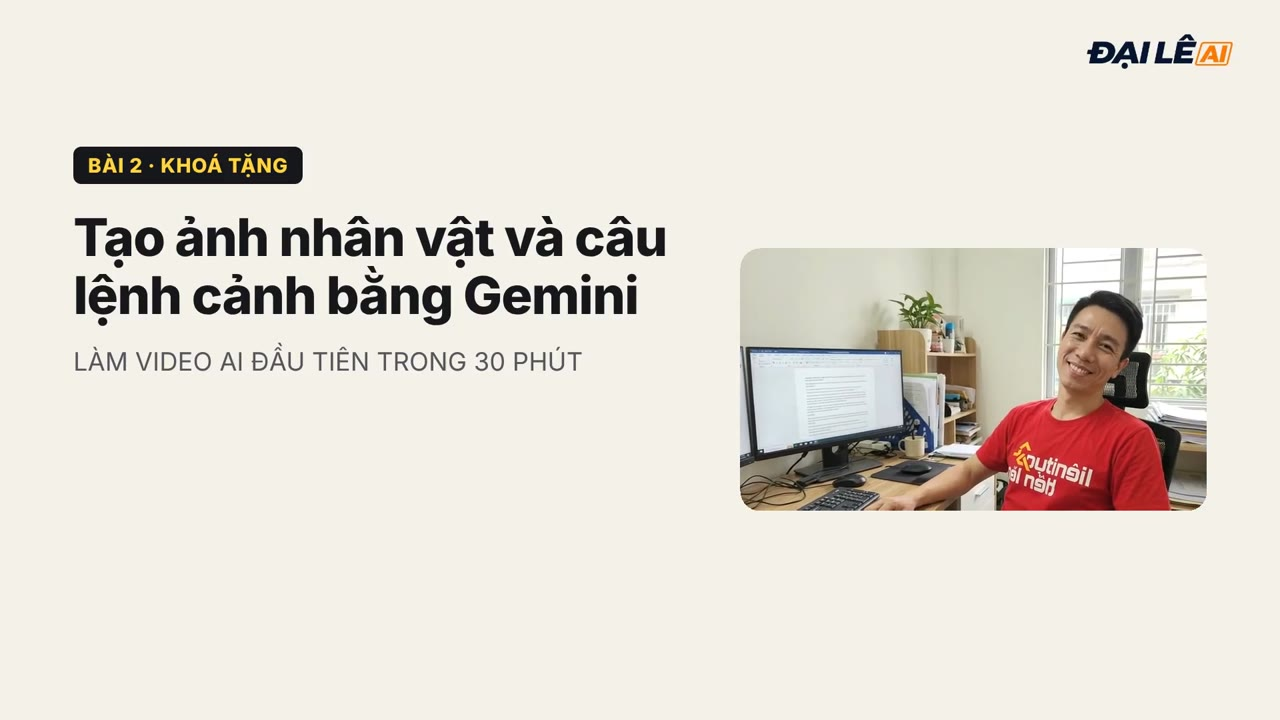
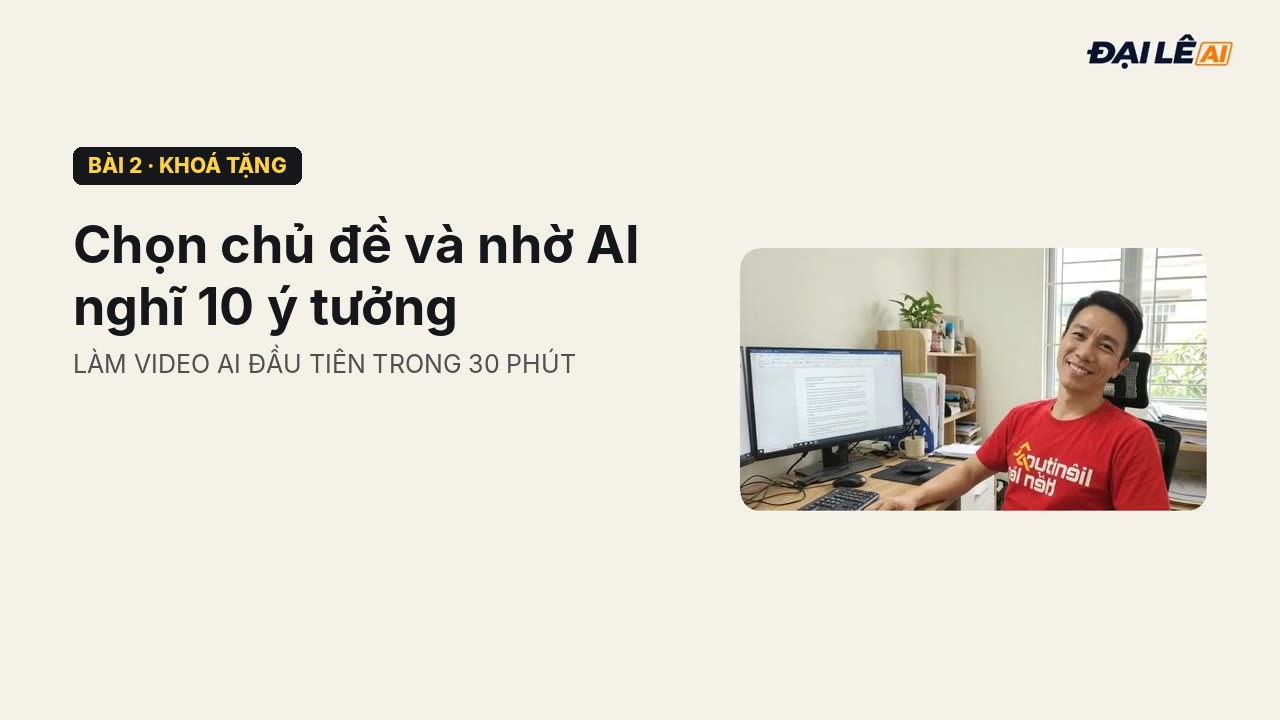
Khoá tặng 10 bài: nội dung mới, Omni/Veo 3.1, 3 đường 8/10/15 giây, 50 câu lệnh 10 ngành
Claude-Session: https://claude.ai/code/session_014dVP9GHVN5B5h4F3HWsqPJ

Changed region(s): [[0.0625, 0.3056, 0.5312, 0.5194], [0.0625, 0.2139, 0.2188, 0.2444]]

diff --git a/tang/index.html b/tang/index.html
@@ -2,10 +2,10 @@
 <html lang="vi"><head>
 <meta charset="utf-8"><meta name="viewport" content="width=device-width,initial-scale=1">
 <title>LÀM VIDEO AI ĐẦU TIÊN TRONG 30 PHÚT – Khoá tặng miễn phí | ĐẠI LÊ AI</title>
-<meta name="description" content="Khoá tặng miễn phí 6 bài: ChatGPT hoặc Gemini viết kịch bản, Gemini tạo nhân vật, Veo 3 trong Google Flow tạo video có tiếng nói, kèm 40 câu lệnh cho 10 ngành.">
+<meta name="description" content="Khoá tặng miễn phí 10 bài: ChatGPT hoặc Gemini viết kịch bản và tạo ảnh, Google Flow (Omni, Veo) tạo video có tiếng nói, kèm 50 câu lệnh cho 10 ngành.">
 <meta property="og:title" content="LÀM VIDEO AI ĐẦU TIÊN TRONG 30 PHÚT – Khoá tặng miễn phí">
-<meta property="og:description" content="6 bài ngắn, học xong có video AI đầu tiên và kế hoạch 7 ngày.">
-<meta property="og:image" content="/tang/img/hero.jpg?v=20261106">
+<meta property="og:description" content="10 bài ngắn, học xong có video AI đầu tiên và kế hoạch 7 ngày.">
+<meta property="og:image" content="/tang/img/hero.jpg?v=20261111">
 <link rel="icon" href="/tang/img/cover-square.jpg">
 <link href="https://fonts.googleapis.com/css2?family=Be+Vietnam+Pro:wght@400;500;600;700;800;900&display=swap" rel="stylesheet">
 <style>
@@ -114,16 +114,16 @@ async function doLogin(ev){ev.preventDefault();const f=ev.target,m=f.querySelect
 async function doReset(){const f=document.getElementById('lf'),m=f.querySelector('.msg');if(!f.email.value){m.textContent='Nhập email đã đăng ký trước, rồi bấm lại "Quên mật khẩu".';return}
  m.className='msg';m.textContent='Đang gửi…';try{const r=await api({action:'reset',email:f.email.value});m.className='msg ok';m.textContent=r.msg}catch(e){m.textContent='Không kết nối được, anh/chị thử lại.'}}
 function gate(){document.getElementById('crumb').innerHTML='<b>KHOÁ TẶNG</b> · Khu vực học viên';
- let h=`<div class="hero"><img src="/tang/img/hero.jpg?v=20261106" alt="LÀM VIDEO AI ĐẦU TIÊN TRONG 30 PHÚT"></div><div class="introv"><h2>Xem thử bài 1</h2><video  controls playsinline preload="metadata" poster="/tang/img/hero.jpg?v=20261106"><source src="/video/bai/tang-01.mp4?v=20261106" type="video/mp4"></video></div><div class="gate"><main>`;
- h+=`<div class="part" style="padding:22px 24px"><h2 style="margin:0 0 6px;font-size:22px">Khoá tặng này dành cho ai?</h2><p style="margin:0 0 14px;line-height:1.6">Dành cho người bán hàng, làm dịch vụ, muốn có <b>video ngắn để đăng mỗi ngày</b> mà chưa biết bắt đầu từ đâu. Không cần biết dựng phim.</p><h2 style="margin:0 0 10px;font-size:20px">Học xong bạn có</h2><div class="gi"><div>✍ Kịch bản 4 cảnh do ChatGPT hoặc Gemini viết</div><div>🧑 Ảnh nhân vật tạo bằng Gemini</div><div>🎬 Video có tiếng nói làm bằng Veo 3</div><div>📣 Video đã đăng, có từ khoá đón khách</div><div>🎁 40 câu lệnh Veo 3 cho 10 ngành</div><div>📅 Kế hoạch 7 ngày, 7 video</div></div><p class="small" style="margin-top:14px">6 bài ngắn, mỗi bài khoảng 7 phút. Miễn phí: đăng ký là nhận tài khoản học qua email.</p></div>`;
+ let h=`<div class="hero"><img src="/tang/img/hero.jpg?v=20261111" alt="LÀM VIDEO AI ĐẦU TIÊN TRONG 30 PHÚT"></div><div class="gate"><main>`;
+ h+=`<div class="part" style="padding:22px 24px"><h2 style="margin:0 0 6px;font-size:22px">Khoá tặng này dành cho ai?</h2><p style="margin:0 0 14px;line-height:1.6">Dành cho người bán hàng, làm dịch vụ, muốn có <b>video ngắn để đăng mỗi ngày</b> mà chưa biết bắt đầu từ đâu. Không cần biết dựng phim.</p><h2 style="margin:0 0 10px;font-size:20px">Học xong bạn có</h2><div class="gi"><div>✍ Kịch bản 30 giây do ChatGPT hoặc Gemini viết</div><div>🧑 Ảnh nhân vật giữ nguyên xuyên suốt video</div><div>🎬 Video có tiếng nói làm bằng Google Flow (Omni, Veo)</div><div>📣 Video đã đăng, có từ khoá đón khách</div><div>🎁 50 câu lệnh làm sẵn cho 10 ngành</div><div>📅 Kế hoạch 7 ngày, 7 video</div></div><p class="small" style="margin-top:14px">10 bài ngắn, chọn đường 8, 10 hoặc 15 giây theo gói của bạn. Miễn phí: đăng ký là nhận tài khoản học qua email.</p></div>`;
 h+=`</main><aside>${NOTOWN?`<div class="login"><h2>Xin chào ${WHO} 👋</h2><div class="small">Tài khoản của anh/chị chưa nhận khoá tặng này. Đăng ký miễn phí bằng đúng email này là khoá tự mở.</div><button class="btn" onclick="logout()" style="background:#5d6785">Đăng nhập tài khoản khác</button></div>`:`<form class="login" id="lf" onsubmit="doLogin(event)"><h2>Đăng nhập để học</h2><div class="small">Dùng email và mật khẩu trong thư chào mừng.</div>
  <input name="email" type="email" placeholder="Email đã đăng ký" required autocomplete="email"><input name="pw" type="password" placeholder="Mật khẩu" required autocomplete="current-password">
  <button class="btn y" type="submit">VÀO HỌC</button><div class="msg"></div><a class="lk" onclick="doReset()">Quên mật khẩu?</a></form>`}
- <div class="buy">Chưa có tài khoản?<br>Khoá tặng <s style="color:#8a8a8a">386.000đ</s> <b>miễn phí</b>, 6 bài ngắn<a class="btn" href="/tang/dang-ky/">ĐĂNG KÝ NHẬN KHOÁ TẶNG</a></div></aside></div>`;return h}
+ <div class="buy">Chưa có tài khoản?<br>Khoá tặng <s style="color:#8a8a8a">386.000đ</s> <b>miễn phí</b>, 10 bài ngắn<a class="btn" href="/tang/dang-ky/">ĐĂNG KÝ NHẬN KHOÁ TẶNG</a></div></aside></div>`;return h}
 function getDone(){try{return JSON.parse(localStorage.getItem(KEY)||'[]')}catch(e){return window.__d||[]}}
 function setDone(a){window.__d=a;try{localStorage.setItem(KEY,JSON.stringify(a))}catch(e){}}
 const pad=n=>String(n).padStart(2,'0');
-const SLUG='tang',PID='tang',NL=6;
+const SLUG='tang',PID='tang',NL=10,NOVID=true;
 function toast(m){const t=document.getElementById('toast');t.textContent=m;t.style.display='block';clearTimeout(window.__tt);window.__tt=setTimeout(()=>t.style.display='none',3500)}
 function unlocked(i){const d=getDone();return (ADM&&ls('adm-open')==='1')||i===1||d.includes(i)||d.includes(i-1)}
 function lab(i){return 'Bài '+pad(i)}
@@ -133,16 +133,16 @@ function vk(i){return 'vp-'+SLUG+'-'+i}
 function vget(i){try{return JSON.parse(ls(vk(i))||'{}')}catch(e){return {}}}
 function vset(i,o){ls(vk(i),JSON.stringify(o))}
 function ck(i){try{return JSON.parse(ls('ck-'+SLUG+'-'+i)||'[]')}catch(e){return []}}
-function lessonReady(i,L){const v=vget(i),c=ck(i);return {video:!!v.w,pct:Math.min(100,Math.round(v.p||0)),checks:c.filter(Boolean).length,total:L.check.length}}
+function lessonReady(i,L){const v=vget(i),c=ck(i);return {video:NOVID||!!v.w,pct:Math.min(100,Math.round(v.p||0)),checks:c.filter(Boolean).length,total:L.check.length}}
 function updGate(i){const L={...C.lessons[i],...FULL[i]};const st=lessonReady(i,L);const g=document.getElementById('gk');if(!g)return;
- g.querySelector('.r1').className='r r1'+(st.video?' ok':'');g.querySelector('.r1 span').textContent=st.video?'Đã xem hết video':'Xem hết video hướng dẫn ('+st.pct+'%)';g.querySelector('.bar b').style.width=(st.video?100:st.pct)+'%';
+ g.querySelector('.r1').style.display=NOVID?'none':'';g.querySelector('.bar').style.display=NOVID?'none':'';g.querySelector('.r1').className='r r1'+(st.video?' ok':'');g.querySelector('.r1 span').textContent=st.video?'Đã xem hết video':'Xem hết video hướng dẫn ('+st.pct+'%)';g.querySelector('.bar b').style.width=(st.video?100:st.pct)+'%';
  g.querySelector('.r2').className='r r2'+(st.checks>=st.total?' ok':'');g.querySelector('.r2 span').textContent='Tích đủ ô tự kiểm tra ('+st.checks+'/'+st.total+')';
  const nq=(L.quiz||[]).length,ans=document.querySelectorAll('#qz input:checked').length;const r3=g.querySelector('.r3');if(r3){r3.style.display=nq?'flex':'none';r3.querySelector('span').textContent='Trả lời trắc nghiệm ('+ans+'/'+nq+' câu)';r3.className='r r3'+(nq&&ans>=nq?' ok':'')}
  const b=document.getElementById('cpl');if(b)b.disabled=!(st.video&&st.checks>=st.total&&ans>=nq)}
 function wire(i){const L={...C.lessons[i],...FULL[i]};const done=getDone().includes(i);
  document.querySelectorAll('.chk input').forEach((x,k)=>{const c=ck(i);x.checked=!!c[k]||done;x.onchange=()=>{const c=ck(i);c[k]=x.checked;ls('ck-'+SLUG+'-'+i,JSON.stringify(c));updGate(i)}});
  document.querySelectorAll('#qz input').forEach(x=>x.onchange=()=>{x.closest('.qq').classList.remove('bad');updGate(i)});
- const v=document.getElementById('lv');if(!v)return;const st=vget(i);let last=0;
+ const v=document.getElementById('lv');if(!v){updGate(i);return}const st=vget(i);let last=0;
  v.addEventListener('loadedmetadata',()=>{if(st.pos&&st.pos<v.duration-3)v.currentTime=st.pos},{once:true});
  v.addEventListener('error',()=>{const o=vget(i);o.w=1;vset(i,o);updGate(i)});
  v.addEventListener('seeking',()=>{const o=vget(i);if(done||o.w)return;const mx=o.m||0;if(v.currentTime>mx+1.5){v.currentTime=mx;const n=document.getElementById('vnote');n.style.display='block';setTimeout(()=>n.style.display='none',3500)}});
@@ -176,7 +176,7 @@ function sidebar(){const d=getDone(),p=Math.round(d.length/NL*100);
  <a class="btn" href="${C.zalo}" target="_blank" rel="noopener">Vào nhóm Zalo hỏi đáp</a></div></aside>`}
 function nextIdx(){const d=getDone();for(let i=1;i<=NL;i++)if(!d.includes(i))return i;return 1}
 function home(){document.getElementById('crumb').innerHTML='<b>KHOÁ TẶNG MIỄN PHÍ</b> · LÀM VIDEO AI ĐẦU TIÊN';
- let h=`<div class="hero"><img src="/tang/img/hero.jpg?v=20261106" alt="LÀM VIDEO AI ĐẦU TIÊN TRONG 30 PHÚT"><button class="go" onclick="go('bai-'+${nextIdx()})">${getDone().length?'Học tiếp ▶':'Bắt đầu khoá học ▶'}</button></div><div class="introv"><h2>Xem thử bài 1</h2><video  controls playsinline preload="metadata" poster="/tang/img/hero.jpg?v=20261106"><source src="/video/bai/tang-01.mp4?v=20261106" type="video/mp4"></video></div><div class="grid"><main>`;
+ let h=`<div class="hero"><img src="/tang/img/hero.jpg?v=20261111" alt="LÀM VIDEO AI ĐẦU TIÊN TRONG 30 PHÚT"><button class="go" onclick="go('bai-'+${nextIdx()})">${getDone().length?'Học tiếp ▶':'Bắt đầu khoá học ▶'}</button></div><div class="grid"><main>`;
  const d=getDone();
  C.parts.forEach(pt=>{h+=`<div class="part"><h2>${pt.name}</h2>`;pt.lessons.forEach(i=>{const L=C.lessons[i];
   {const ok=unlocked(i),dn=d.includes(i),cur=ok&&!dn;h+=`<div class="ls ${ok?'':'lockd'}" onclick="${ok?`go('bai-${i}')`:`toast('🔒 Hoàn thành bài trước để mở bài này nhé.')`}"><img src="/tang/img/bai-${pad(i)}.jpg" alt="Bài ${pad(i)}" loading="lazy"><div style="flex:1"><h3>Bài ${pad(i)}. ${L.title}</h3><p>Sau bài này: ${strip(L.goal)}</p></div>${cur?'<span class="now">Đang học</span>':''}<span class="dn ${dn?'on':''}"></span></div>`}});h+=`</div>`});
@@ -185,7 +185,7 @@ function lesson(i){const L0=C.lessons[i];if(!L0||!FULL||!FULL[i])return home();i
  const part=C.parts.find(p=>p.lessons.includes(i));
  document.getElementById('crumb').innerHTML=`<span style="cursor:pointer" onclick="go('')">KHOÁ TẶNG</span> / <b>Bài ${pad(i)}. ${L.title}</b>`;
  let h=`<div class="grid"><main><div class="lesson"><img class="cv" src="/tang/img/bai-${pad(i)}.jpg" alt="Bài ${pad(i)}"><div class="small">${part.name}</div><h1>Bài ${pad(i)}. ${L.title}</h1>
- <div class="goal"><b>Sau bài này bạn có:</b> ${L.goal}</div><div class="lv"><h3>🎬 Video hướng dẫn bài này</h3><video id="lv" controls playsinline controlslist="nodownload" preload="metadata" src="/video/bai/tang-${pad(i)}.mp4?v=20261106"></video><div class="vnote" id="vnote">Xem lần lượt nhé, chưa tua qua đoạn chưa xem được.</div></div>${L.html}
+ <div class="goal"><b>Sau bài này bạn có:</b> ${L.goal}</div>${NOVID?'':`<div class="lv"><h3>🎬 Video hướng dẫn bài này</h3><video id="lv" controls playsinline controlslist="nodownload" preload="metadata" src="/video/bai/tang-${pad(i)}.mp4?v=20261111"></video><div class="vnote" id="vnote">Xem lần lượt nhé, chưa tua qua đoạn chưa xem được.</div></div>`}${L.html}
  <div class="task"><h3>✍ Bài tập</h3>${L.task}<h3 style="margin-top:14px!important">✅ Tự kiểm tra</h3><div class="chk">${L.check.map((c,k)=>`<label><input type="checkbox">${c}</label>`).join('')}</div></div>
  <p style="margin-top:18px"><b>${L.next}</b></p>
  ${!isDone&&L.quiz&&L.quiz.length?`<div class="qz" id="qz"><h3>📝 Trắc nghiệm nhanh</h3><div class="small">Trả lời đúng ${L.quiz.length} câu để mở bài tiếp theo.</div>${L.quiz.map((q,k)=>`<div class="qq" data-k="${k}"><b>${k+1}. ${q[0]}</b>${q[1].map((o,j)=>`<label><input type="radio" name="q${k}" value="${j}"><span>${o}</span></label>`).join('')}<div class="qw">Chưa đúng, xem lại bài rồi chọn lại nhé.</div></div>`).join('')}</div>`:''}

diff --git a/tang/dang-ky/index.html b/tang/dang-ky/index.html
@@ -2,9 +2,9 @@
 <html lang="vi"><head>
 <meta charset="utf-8"><meta name="viewport" content="width=device-width,initial-scale=1">
 <title>KHOÁ TẶNG MIỄN PHÍ: LÀM VIDEO AI ĐẦU TIÊN TRONG 30 PHÚT | ĐẠI LÊ AI</title>
-<meta name="description" content="Khoá tặng miễn phí 6 bài: làm video AI có tiếng nói với ChatGPT hoặc Gemini và Veo 3 trong Google Flow, kèm 40 câu lệnh cho 10 ngành.">
+<meta name="description" content="Khoá tặng miễn phí 10 bài: làm video AI có tiếng nói với ChatGPT hoặc Gemini và Google Flow (Omni, Veo), kèm 50 câu lệnh cho 10 ngành.">
 <meta property="og:title" content="KHOÁ TẶNG MIỄN PHÍ: LÀM VIDEO AI ĐẦU TIÊN TRONG 30 PHÚT">
-<meta property="og:description" content="6 bài ngắn, học xong có video AI đầu tiên và kế hoạch 7 ngày. Miễn phí.">
+<meta property="og:description" content="10 bài ngắn, học xong có video AI đầu tiên và kế hoạch 7 ngày. Miễn phí.">
 <meta property="og:image" content="https://hoc.lequydai.com/tang/img/hero.jpg?v=20261105">
 <link rel="icon" href="/tang/img/cover-square.jpg">
 <style>
@@ -73,37 +73,41 @@ footer a{color:#fff}
  <div class="brand"><a href="https://lequydai.com/"><img src="/img/logo-am.png?v=20261105b" alt="ĐẠI LÊ AI"></a></div>
  <p class="pre">🎁 Khoá tặng miễn phí của ĐẠI LÊ AI</p>
  <h1>Làm <span class="hl">video AI đầu tiên</span> trong 30 phút</h1>
- <p class="sub">Không cần quay mặt, không cần biết dựng phim. 6 bài ngắn: Veo 3 tạo video có giọng nói, bạn không cần quay, không cần ghép.</p>
- <video class="heroimg" controls playsinline preload="metadata" poster="/tang/img/hero.jpg"><source src="/video/bai/tang-01.mp4?v=20261105" type="video/mp4"></video>
+ <p class="sub">Không cần quay mặt, không cần biết dựng phim. 10 bài ngắn: chỉ cần ChatGPT hoặc Gemini và Google Flow, video có sẵn giọng nói, bạn không cần quay.</p>
+ <img class="heroimg" src="/tang/img/hero.jpg" alt="Làm video AI đầu tiên trong 30 phút">
  <a class="cta" href="#mua">Nhận khoá tặng miễn phí</a>
- <p class="safe">✓ Miễn phí 100% · ✓ Học trên điện thoại hoặc máy tính · ✓ Có video hướng dẫn từng bài</p>
+ <p class="safe">✓ Miễn phí 100% · ✓ Học trên điện thoại hoặc máy tính · ✓ Làm theo từng bước, câu lệnh chép là dùng</p>
 </div></section>
 <section class="dark"><div class="w">
  <h2>Bạn có đang như vầy?</h2>
  <ul><li>Biết phải đăng video mỗi ngày mới có khách, mà không biết bắt đầu từ đâu.</li><li>Ngại quay mặt, ngại nói trước máy.</li><li>Nghe AI làm video được mà thử mấy lần vẫn rối.</li></ul>
- <p>Khoá tặng này đi từng bước nhỏ, mỗi bài một việc. Xong bài 4 là bạn có video đầu tiên đăng lên Facebook, bài 5–6 giúp bạn đăng đều mỗi ngày.</p>
+ <p>Khoá tặng này đi từng bước nhỏ, mỗi bài một việc. Xong bài 8 là bạn có video đầu tiên, bài 9 và 10 giúp bạn đăng và đăng đều mỗi ngày.</p>
 </div></section>
 <section><div class="w">
- <h2>6 bài, mỗi bài khoảng 7 phút</h2>
+ <h2>10 bài, chọn đường 8, 10 hoặc 15 giây theo gói của bạn</h2>
  <div class="mech">
-  <div><b>Bài 1 · Kịch bản 4 cảnh:</b> nhờ ChatGPT hoặc Gemini viết kịch bản 30 giây, mỗi cảnh 8 giây.</div>
-  <div><b>Bài 2 · Ảnh nhân vật + câu lệnh cảnh:</b> Gemini tạo nhân vật dọc 9:16, AI viết 4 câu lệnh cho Veo 3.</div>
-  <div><b>Bài 3 · Tạo video bằng Veo 3:</b> trong Google Flow, mỗi cảnh có sẵn giọng nói và âm thanh.</div>
-  <div><b>Bài 4 · Đăng và đón khách:</b> đăng Reels có từ khoá bình luận, nhắn riêng người quan tâm.</div>
-  <div><b>Bài 5 · Quà: 40 câu lệnh Veo 3 cho 10 ngành:</b> spa, quán ăn, cà phê, quần áo, mỹ phẩm, BĐS, xe, điện thoại, lớp học, sửa chữa.</div>
-  <div><b>Bài 6 · Kế hoạch 7 ngày, 7 video:</b> 7 câu lệnh kịch bản cho 7 kiểu video, đăng đều không bí ý tưởng.</div>
+  <div><b>Bài 1 · Chọn đường đi:</b> hai công cụ, ba độ dài cảnh: 8 giây (Veo 3.1), 10 giây (Omni, miễn phí), 15 giây (Omni, gói Plus).</div>
+  <div><b>Bài 2 · Ý tưởng:</b> AI nghĩ 10 ý, bạn chọn 1 ý, 1 câu móc và 1 từ khoá bình luận.</div>
+  <div><b>Bài 3 · Kịch bản:</b> AI viết kịch bản 30 giây, lời thoại vừa khít từng cảnh.</div>
+  <div><b>Bài 4 · Ảnh nhân vật:</b> một người xuyên suốt video, trông như quay bằng điện thoại.</div>
+  <div><b>Bài 5 · Câu lệnh từng cảnh:</b> đổi kịch bản thành câu lệnh dán thẳng vào Flow.</div>
+  <div><b>Bài 6 · Cảnh đầu tiên trong Flow:</b> làm nháp rẻ trước, ưng rồi mới xuất bản đẹp.</div>
+  <div><b>Bài 7 · Giữ nhân vật không lệch:</b> làm các cảnh còn lại, sửa nhanh bằng lời.</div>
+  <div><b>Bài 8 · Nối cảnh và tải về:</b> ghép thành video 30 giây, kéo dài bằng Omni Extend.</div>
+  <div><b>Bài 9 · Đăng và đón khách:</b> chú thích ngắn, từ khoá bình luận, nhắn riêng.</div>
+  <div><b>Bài 10 · Quà tặng:</b> kế hoạch 7 ngày và 50 câu lệnh làm sẵn cho 10 ngành.</div>
  </div>
  <div class="pack" style="margin-top:26px"><div class="ph">BẠN NHẬN ĐƯỢC GÌ</div>
-  <div class="row">4 bài làm video AI đầu tiên (ChatGPT hoặc Gemini + Veo 3)<b style="float:right">168.000đ</b></div>
-  <div class="row">40 câu lệnh Veo 3 làm sẵn cho 10 ngành<b style="float:right">108.000đ</b></div>
-  <div class="row">Kế hoạch 7 ngày + 7 câu lệnh kịch bản<b style="float:right">70.000đ</b></div>
+  <div class="row">10 bài làm video AI từ ý tưởng đến đăng bài (ChatGPT hoặc Gemini + Google Flow)<b style="float:right">200.000đ</b></div>
+  <div class="row">50 câu lệnh làm sẵn cho 10 ngành<b style="float:right">100.000đ</b></div>
+  <div class="row">Kế hoạch 7 ngày, 7 video<b style="float:right">46.000đ</b></div>
   <div class="row">Nhóm Zalo gửi video, Đại góp ý + giấy chứng nhận<b style="float:right">40.000đ</b></div>
   <div class="row" style="font-weight:900">Tổng giá trị<b style="float:right"><s>386.000đ</s> → MIỄN PHÍ</b></div></div>
- <ul class="ticks" style="margin-top:24px"><li>6 video hướng dẫn ngắn, giọng đọc rõ ràng</li><li>Câu lệnh mẫu chép là dùng</li><li>Giấy chứng nhận khi học xong</li><li>Nhóm Zalo để gửi video, Đại góp ý</li></ul>
+ <ul class="ticks" style="margin-top:24px"><li>Ba đường 8, 10, 15 giây, chọn theo gói của bạn</li><li>Câu lệnh mẫu chép là dùng</li><li>Giấy chứng nhận khi học xong</li><li>Nhóm Zalo để gửi video, Đại góp ý</li></ul>
  <div class="who" style="margin-top:26px"><img src="/img/dai-1.jpg" alt="Đại Lê"><div><b>Đại Lê · ĐẠI LÊ AI</b><br>Mình dùng AI để làm nội dung và bán hàng mỗi ngày, rồi chia sẻ lại cách làm sao cho dễ nhất, người không rành công nghệ cũng làm theo được.</div></div>
 </div></section>
 <section id="mua"><div class="w">
- <div class="price"><div class="lbl">KHOÁ TẶNG 6 BÀI</div><div class="big"><s style="color:#8a8a8a;font-weight:700;font-size:.62em;margin-right:8px">386.000đ</s>MIỄN PHÍ</div><div style="color:var(--mut);font-size:16px;margin-top:6px">Điền đủ thông tin · Tài khoản học gửi về email</div></div>
+ <div class="price"><div class="lbl">KHOÁ TẶNG 10 BÀI</div><div class="big"><s style="color:#8a8a8a;font-weight:700;font-size:.62em;margin-right:8px">386.000đ</s>MIỄN PHÍ</div><div style="color:var(--mut);font-size:16px;margin-top:6px">Điền đủ thông tin · Tài khoản học gửi về email</div></div>
  <div class="box" id="ck" style="margin-top:26px">
   <form id="of" onsubmit="order(event)">
    <label for="n">Họ và tên</label><input id="n" name="name" required autocomplete="name" placeholder="Nguyễn Văn A">

diff --git a/tang/lessons.js b/tang/lessons.js
@@ -2,62 +2,100 @@
 window.COURSE = {
  "id": "tang",
  "title": "LÀM VIDEO AI ĐẦU TIÊN TRONG 30 PHÚT",
- "subtitle": "Khoá tặng miễn phí: 6 bài, làm video AI có tiếng nói bằng ChatGPT hoặc Gemini và Veo 3",
+ "subtitle": "Khoá tặng miễn phí: 10 bài, làm video AI có tiếng nói bằng ChatGPT hoặc Gemini và Google Flow (Omni, Veo)",
  "zalo": "https://zalo.me/g/a9my3sx1ov0fsihenx6e",
  "parts": [
   {
-   "name": "Làm video đầu tiên: 4 bài, mỗi bài khoảng 7 phút",
+   "name": "Chuẩn bị: chọn đường đi và ý tưởng",
    "lessons": [
     1,
-    2,
-    3,
-    4
+    2
    ]
   },
   {
-   "name": "Quà thêm: câu lệnh 10 ngành + kế hoạch 7 ngày",
+   "name": "Kịch bản và hình ảnh",
    "lessons": [
-    5,
-    6
+    3,
+    4,
+    5
+   ]
+  },
+  {
+   "name": "Làm video trong Google Flow",
+   "lessons": [
+    6,
+    7,
+    8
+   ]
+  },
+  {
+   "name": "Đăng và đều đặn, kèm quà tặng",
+   "lessons": [
+    9,
+    10
    ]
   }
  ],
  "lessons": {
   "1": {
-   "title": "Nhờ ChatGPT hoặc Gemini viết kịch bản 4 cảnh",
-   "short": "KỊCH BẢN 4 CẢNH",
-   "tag": "AI viết, bạn chỉ sửa",
-   "goal": "Bạn có kịch bản video 30 giây chia đúng 4 cảnh, mỗi cảnh 8 giây, có câu móc và từ khoá bình luận."
+   "title": "Chọn đường đi: 2 công cụ, 3 độ dài video",
+   "short": "CHỌN ĐƯỜNG ĐI",
+   "tag": "Mở sẵn ChatGPT hoặc Gemini và Google Flow",
+   "goal": "Bạn biết mình đi đường nào (8, 10 hay 15 giây mỗi cảnh) và đã mở sẵn 2 công cụ để làm video."
   },
   "2": {
-   "title": "Tạo ảnh nhân vật bằng Gemini và câu lệnh cảnh",
-   "short": "ẢNH NHÂN VẬT + CÂU LỆNH",
-   "tag": "Gemini tạo ảnh, AI viết câu lệnh Veo 3",
-   "goal": "Bạn có 1 ảnh nhân vật dọc 9:16 và 4 câu lệnh cảnh để đưa vào Veo 3."
+   "title": "Chọn chủ đề và nhờ AI nghĩ 10 ý tưởng",
+   "short": "Ý TƯỞNG + TỪ KHOÁ",
+   "tag": "AI nghĩ, bạn chọn 1 ý",
+   "goal": "Bạn có 1 ý tưởng video, 1 câu móc mở đầu và 1 từ khoá bình luận để đón khách."
   },
   "3": {
-   "title": "Tạo video có tiếng nói bằng Veo 3 trong Google Flow",
-   "short": "VIDEO VEO 3",
-   "tag": "Google Flow, không cần quay, không cần ghép tay",
-   "goal": "Bạn có video 30 giây hoàn chỉnh: 4 cảnh cùng một nhân vật, có giọng nói và âm thanh."
+   "title": "Nhờ AI viết kịch bản đúng số cảnh",
+   "short": "KỊCH BẢN",
+   "tag": "AI viết, bạn chỉ sửa",
+   "goal": "Bạn có kịch bản 30 giây chia đúng số cảnh, lời thoại vừa với thời gian mỗi cảnh, có câu móc và từ khoá."
   },
   "4": {
-   "title": "Đăng video và đón khách",
-   "short": "ĐĂNG VÀ ĐÓN KHÁCH",
-   "tag": "Từ khoá bình luận, nhắn riêng",
-   "goal": "Video của bạn đã đăng, có từ khoá bình luận để đón người quan tâm."
+   "title": "Tạo ảnh nhân vật: một người xuyên suốt video",
+   "short": "ẢNH NHÂN VẬT",
+   "tag": "ChatGPT hoặc Gemini tạo ảnh",
+   "goal": "Bạn có 1 ảnh nhân vật dọc 9:16 trông như người thật quay bằng điện thoại, dùng làm gốc cho mọi cảnh."
   },
   "5": {
-   "title": "Quà tặng: bộ câu lệnh Veo 3 cho 10 ngành",
-   "short": "40 CÂU LỆNH 10 NGÀNH",
-   "tag": "Chép là dùng, đổi theo sản phẩm của bạn",
-   "goal": "Bạn có 40 câu lệnh cảnh làm sẵn cho 10 ngành và video thứ hai của mình."
+   "title": "Tạo ảnh cảnh và viết câu lệnh cho từng cảnh",
+   "short": "CÂU LỆNH TỪNG CẢNH",
+   "tag": "AI đổi kịch bản thành câu lệnh video",
+   "goal": "Bạn có ảnh bối cảnh (nếu cần) và 1 câu lệnh hoàn chỉnh cho mỗi cảnh để dán thẳng vào Flow."
   },
   "6": {
-   "title": "Kế hoạch 7 ngày, 7 video",
-   "short": "7 NGÀY · 7 VIDEO",
-   "tag": "7 câu lệnh cho 7 kiểu video",
-   "goal": "Bạn có lịch đăng 7 ngày và 7 câu lệnh kịch bản, đăng đều mà không bí ý tưởng."
+   "title": "Vào Flow làm cảnh đầu tiên: nháp rồi xuất",
+   "short": "CẢNH ĐẦU TIÊN",
+   "tag": "Google Flow, Omni hoặc Veo",
+   "goal": "Bạn có cảnh 1 đã tạo xong trong Flow: đúng người, đúng lời thoại, tiếng rõ."
+  },
+  "7": {
+   "title": "Làm các cảnh còn lại và giữ nhân vật không lệch",
+   "short": "GIỮ NHÂN VẬT",
+   "tag": "Ảnh tham chiếu + sửa bằng lời",
+   "goal": "Bạn có đủ mọi cảnh của video, cùng một nhân vật, tiếng nói đồng đều giữa các cảnh."
+  },
+  "8": {
+   "title": "Nối cảnh thành video 30 giây và tải về",
+   "short": "NỐI CẢNH + TẢI VỀ",
+   "tag": "Trình dựng cảnh, Omni Extend",
+   "goal": "Bạn có 1 video hoàn chỉnh khoảng 30 giây, đã tải về máy, xem lại trên điện thoại."
+  },
+  "9": {
+   "title": "Đăng video và đón khách bằng từ khoá",
+   "short": "ĐĂNG VÀ ĐÓN KHÁCH",
+   "tag": "Chú thích ngắn, bình luận, nhắn riêng",
+   "goal": "Video của bạn đã đăng, có chú thích ngắn và từ khoá bình luận để đón người quan tâm."
+  },
+  "10": {
+   "title": "Kế hoạch 7 ngày và quà tặng 50 câu lệnh cho 10 ngành",
+   "short": "KẾ HOẠCH + 50 CÂU LỆNH",
+   "tag": "Quà tặng: dùng ngay cho ngành của bạn",
+   "goal": "Bạn có lịch đăng 7 ngày và bộ câu lệnh làm sẵn cho ngành của mình để làm video thứ hai thật nhanh."
   }
  }
 };

diff --git a/index.html b/index.html
@@ -82,7 +82,7 @@ footer img{height:26px;filter:invert(1) brightness(.3);margin-bottom:6px}
 <script src="/config.js"></script>
 <script>
 const COURSES=[
- {id:'tang',free:1,name:'🎁 LÀM VIDEO AI ĐẦU TIÊN TRONG 30 PHÚT',meta:'Khoá tặng miễn phí · 6 bài',desc:'ChatGPT hoặc Gemini viết kịch bản, Veo 3 trong Google Flow tạo video có tiếng nói, rồi đăng lên đón khách. Tặng thêm 40 câu lệnh cho 10 ngành và kế hoạch 7 ngày.',img:'/tang/img/hero.jpg?v=20261106',learn:'/tang/',buy:'/tang/dang-ky/',price:'<s style="color:#8a8a8a;font-weight:700;font-size:14px;margin-right:6px">386.000đ</s>Miễn phí',total:6,done:'tang-done'},
+ {id:'tang',free:1,name:'🎁 LÀM VIDEO AI ĐẦU TIÊN TRONG 30 PHÚT',meta:'Khoá tặng miễn phí · 10 bài',desc:'ChatGPT hoặc Gemini viết kịch bản và tạo ảnh, Google Flow (Omni, Veo) tạo video có tiếng nói, rồi đăng lên đón khách. Tặng thêm 50 câu lệnh cho 10 ngành và kế hoạch 7 ngày.',img:'/tang/img/hero.jpg?v=20261106',learn:'/tang/',buy:'/tang/dang-ky/',price:'<s style="color:#8a8a8a;font-weight:700;font-size:14px;margin-right:6px">386.000đ</s>Miễn phí',total:6,done:'tang-done'},
  {id:'vanhanh',name:'VẬN HÀNH AGENT',meta:'16 bài · Cầm tay chỉ việc',desc:'Dựng đội nhân viên AI tự làm việc cho bạn: cài app NAOSO, giao việc, hẹn giờ, chatbot khách hàng và chạy 24/7 với tên miền riêng.',img:'/img/hero.jpg?v=20261105',learn:'/van-hanh/',buy:'/dang-ky/',price:'<s style="color:#8a8a8a;font-weight:700;font-size:14px;margin-right:6px">3.868.000đ</s>1.868.000đ',total:16,done:'vanhanh-agent-done'},
  {id:'vibe',name:'28 NGÀY VIBE CODING',meta:'28 ngày · Bot CSKH Zalo & Facebook',desc:'Tự làm bot chăm sóc khách hàng tự trả lời trên Zalo và Facebook bằng AI, không cần biết code. Mỗi ngày một bước nhỏ, làm là chạy.',img:'/vibe-coding/img/hero.jpg?v=20261105',learn:'/vibe-coding/',buy:'/vibe-coding/dang-ky/',price:'<s style="color:#8a8a8a;font-weight:700;font-size:14px;margin-right:6px">4.868.000đ</s>2.868.000đ',total:19,done:'vibe-coding-done'},
  {id:'donggoi',name:'ĐÓNG GÓI KIẾN THỨC',meta:'14 bài · Biến kinh nghiệm thành khoá học',desc:'Biến kinh nghiệm bạn đang có thành một khoá học hoàn chỉnh với ChatGPT hoặc Claude: tìm chủ đề, dựng bài, quay video, làm trang bán và bán thử khoá đầu tiên.',img:'/dong-goi/img/hero.jpg?v=20261105dg',learn:'/dong-goi/',buy:'/dong-goi/dang-ky/',price:'3.868.000đ',total:14,done:'dong-goi-done'}
